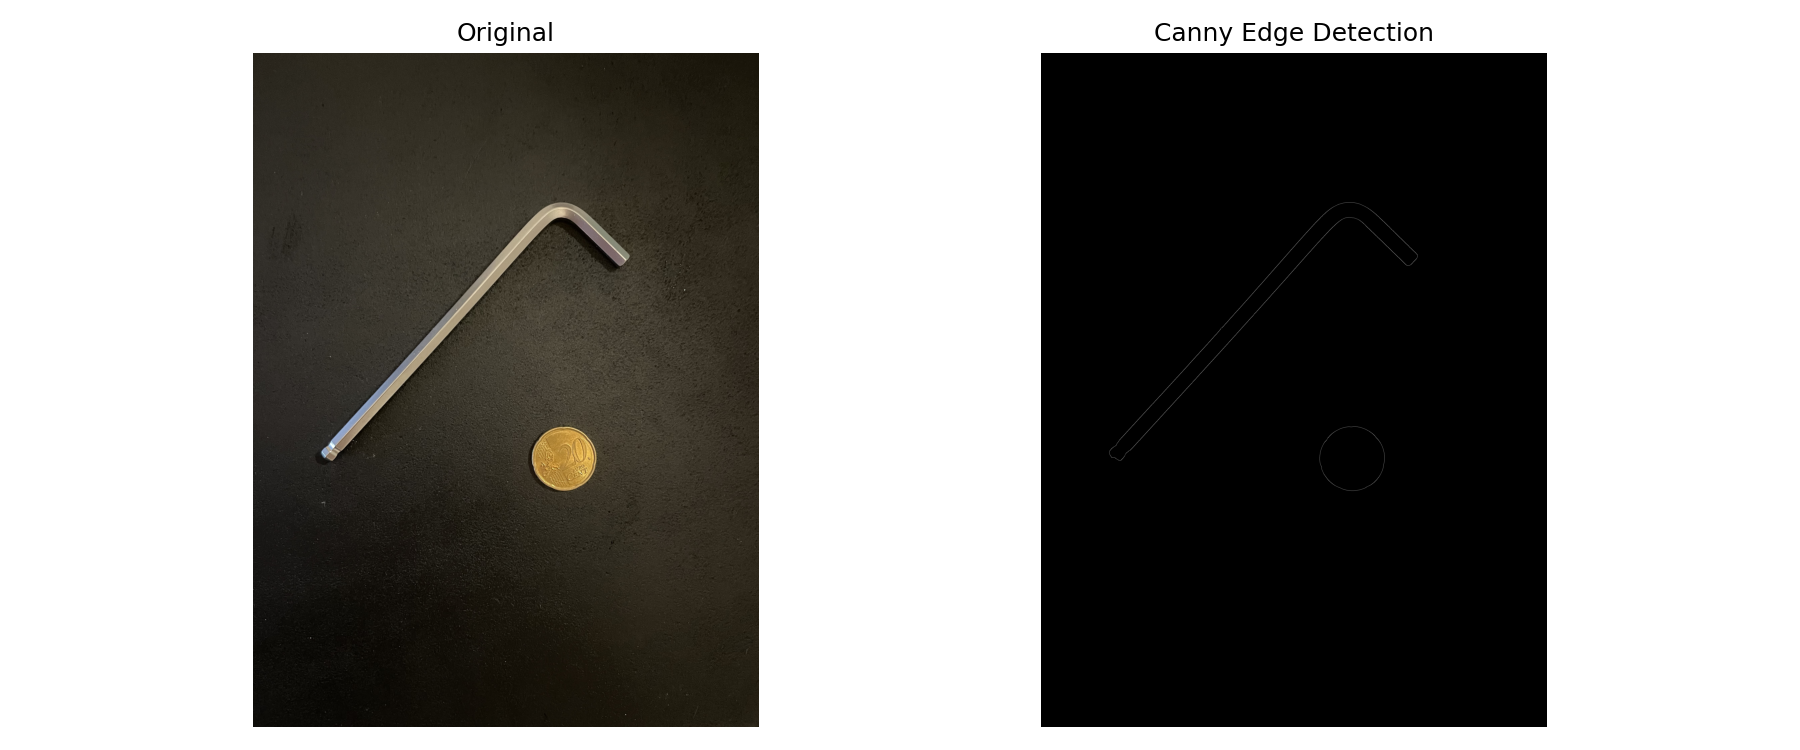
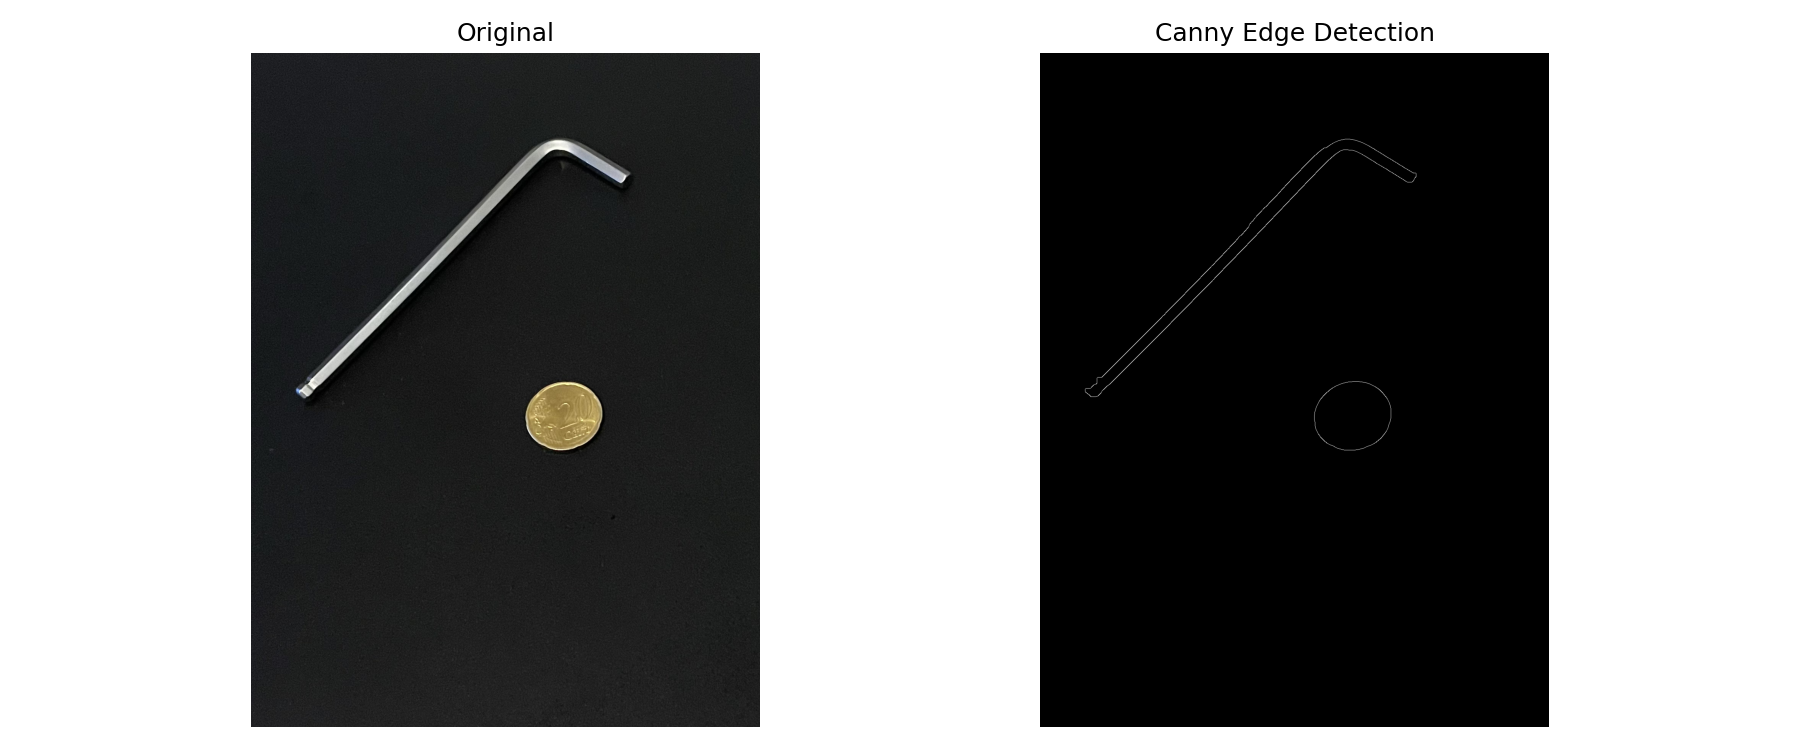
improve münzenerkennung

diff --git a/logik/bemessung_2.py b/logik/bemessung_2.py
@@ -41,30 +41,47 @@ def measure_dimensions_by_minAreaRect(
     contours, _ = cv2.findContours(clean, cv2.RETR_EXTERNAL, cv2.CHAIN_APPROX_SIMPLE)
 
     # --- Münze erkennen ---
-    coin_contour, best_circ = _finde_muenze(contours)
+    coin_contour, best_solidity = _finde_muenze(contours)
     if coin_contour is None:
         raise RuntimeError("Keine Münze gefunden!")
 
-    # Minimalen Umkreis der Münze berechnen
-    (x, y), radius = cv2.minEnclosingCircle(coin_contour)
-    x, y, radius   = int(x), int(y), int(radius)
-    pixels_per_mm    = (radius * 2) / muenz_durchmesser_mm
+    # Da das Bild schräg ist, fitten wir eine Ellipse statt eines Kreises
+    ellipse = cv2.fitEllipse(coin_contour)
+    (cx, cy), (axes1, axes2), angle = ellipse
 
-    # --- Plot 2: Münze erkennen---
+    # Die längste Achse (major axis) wird durch die Schräglage nicht gestaucht!
+    d_major = max(axes1, axes2)
+    d_minor = min(axes1, axes2)
+
+    cx, cy = int(cx), int(cy)
+    radius = int(d_major / 2)
+    pixels_per_mm = d_major / muenz_durchmesser_mm
+
+    # --- Plot 2: Münze erkennen ---
     coin_img = img_rgb.copy()
-    cv2.circle(coin_img, (x, y), radius, (0, 255, 0), 3)
-    cv2.circle(coin_img, (x, y), 4, (255, 0, 0), -1)
-    cv2.putText(coin_img, f"Circularity: {best_circ:.2f}",
-                (x - 80, y - radius - 10),
+    cv2.ellipse(coin_img, ellipse, (0, 255, 0), 3)  # Ellipse zeichnen
+    cv2.circle(coin_img, (cx, cy), 4, (255, 0, 0), -1)
+
+    # Schiefstand (Verhältnis von kurzer zu langer Achse, 1.0 = perfekter Kreis)
+    ratio = d_minor / d_major
+
+    cv2.putText(coin_img,
+                f"Solidity: {best_solidity:.2f} | Angle-Ratio: {ratio:.2f}",
+                (cx - 100, cy - radius - 20),
                 cv2.FONT_HERSHEY_SIMPLEX, 0.7, (255, 0, 0), 2)
+
     _save_single(
         coin_img,
-        f"Münze erkannt  |  Circularity: {best_circ:.2f}  |  Radius: {radius} px",
+        f"Münze erkannt | Solidity: {best_solidity:.2f} | D_major: {d_major:.1f} px",
         os.path.join(ausgabe_ordner, "02_muenze_erkannt.png")
     )
 
+    # Ab hier läuft der Code ganz normal mit "Inbus erkennen" weiter ...
+    # (cx, cy und radius werden weiterhin für _finde_inbus verwendet)
+
     # --- Inbus erkennen ---
-    inbus_contour = _finde_inbus(contours, x, y, radius)
+    inbus_contour = _finde_inbus(contours, cx, cy,
+                                 radius)  # x, y zu cx, cy geändert
     if inbus_contour is None:
         raise RuntimeError("Kein Inbus gefunden!")
 
@@ -84,7 +101,8 @@ def measure_dimensions_by_minAreaRect(
 
     final_img = img_rgb.copy()
     cv2.drawContours(final_img, [box], 0, (0, 255, 0), 3)
-    cv2.circle(final_img, (x, y), radius, (255, 165, 0), 2)
+    cv2.circle(final_img, (cx, cy), radius, (255, 165, 0),
+               2)  # x, y zu cx, cy geändert
     cv2.putText(final_img, f"{height_mm:.1f} mm", long_mid,
                 cv2.FONT_HERSHEY_SIMPLEX, 1.5, (0, 255, 0), 2)
     cv2.putText(final_img, f"{width_mm:.1f} mm", short_mid,
@@ -97,10 +115,11 @@ def measure_dimensions_by_minAreaRect(
 
     # --- Ergebnisse speichern ---
     ergebnisse = {
-        "breite_mm":      round(width_mm, 2),
-        "laenge_mm":      round(height_mm, 2),
-        "pixels_per_mm":  round(pixels_per_mm, 4),
-        "circularity":    round(best_circ, 4),
+        "breite_mm": round(width_mm, 2),
+        "laenge_mm": round(height_mm, 2),
+        "pixels_per_mm": round(pixels_per_mm, 4),
+        "solidity": round(best_solidity, 4),
+        # best_circ zu best_solidity geändert
         "muenz_radius_px": radius,
     }
     _speichere_ergebnisse(ergebnisse, muenz_durchmesser_mm, ausgabe_ordner)
@@ -116,19 +135,29 @@ def measure_dimensions_by_minAreaRect(
 # ============================================================
 
 def _finde_muenze(contours):
-    best_coin_contour, best_circ = None, 0
+    best_coin_contour = None
+    best_solidity = 0
+
     for c in contours:
         area = cv2.contourArea(c)
-        if area < 200:
+        # fitEllipse benötigt mindestens 5 Punkte
+        if area < 200 or len(c) < 5:
             continue
-        perim = cv2.arcLength(c, True)
-        if perim == 0:
+
+        # Solidity = Konturfläche / Fläche der konvexen Hülle
+        hull = cv2.convexHull(c)
+        hull_area = cv2.contourArea(hull)
+        if hull_area == 0:
             continue
-        circularity = (4 * np.pi * area) / (perim ** 2)
-        if circularity > best_circ:
-            best_circ = circularity
+
+        solidity = area / hull_area
+
+        # Eine Ellipse ist streng konvex, Solidity liegt also sehr nahe an 1.0
+        if solidity > best_solidity:
+            best_solidity = solidity
             best_coin_contour = c
-    return best_coin_contour, best_circ
+
+    return best_coin_contour, best_solidity
 
 
 def _finde_inbus(contours, cx, cy, radius):
@@ -176,7 +205,8 @@ def _speichere_ergebnisse(e, muenz_mm, ordner):
         f.write(f"  Münzdurchmesser (real): {muenz_mm} mm\n")
         f.write(f"  Münzradius (Pixel):     {e['muenz_radius_px']} px\n")
         f.write(f"  Pixel pro mm:           {e['pixels_per_mm']} px/mm\n")
-        f.write(f"  Circularity:            {e['circularity']}\n\n")
+        # HIER WURDE CIRCULARITY DURCH SOLIDITY ERSETZT:
+        f.write(f"  Solidity:               {e['solidity']}\n\n")
         f.write(f"Inbusschlüssel:\n")
         f.write(f"  Breite:  {e['breite_mm']} mm\n")
         f.write(f"  Länge:   {e['laenge_mm']} mm\n")

diff --git a/main.py b/main.py
@@ -23,7 +23,7 @@ from logik.vorverarbeitung import (
 from logik.bemessung_2 import measure_dimensions_by_minAreaRect
 
 
-IMAGE_PATH = "bilder/2.jpg"
+IMAGE_PATH = "bilder/5.jpg"
 OUTPUT_DIR = Path("output")
 OUTPUT_DIR_2 = Path("output2")
 
@@ -122,7 +122,7 @@ def main(measure_method):
 
 
 if __name__ == "__main__":
-    print("############## Houghline Variante ##############")
-    main(measure_method="Houghlines")
+    #print("############## Houghline Variante ##############")
+    #main(measure_method="Houghlines")
     print("############## minAreaRect Variante ##############")
     main(measure_method="minAreaRect")